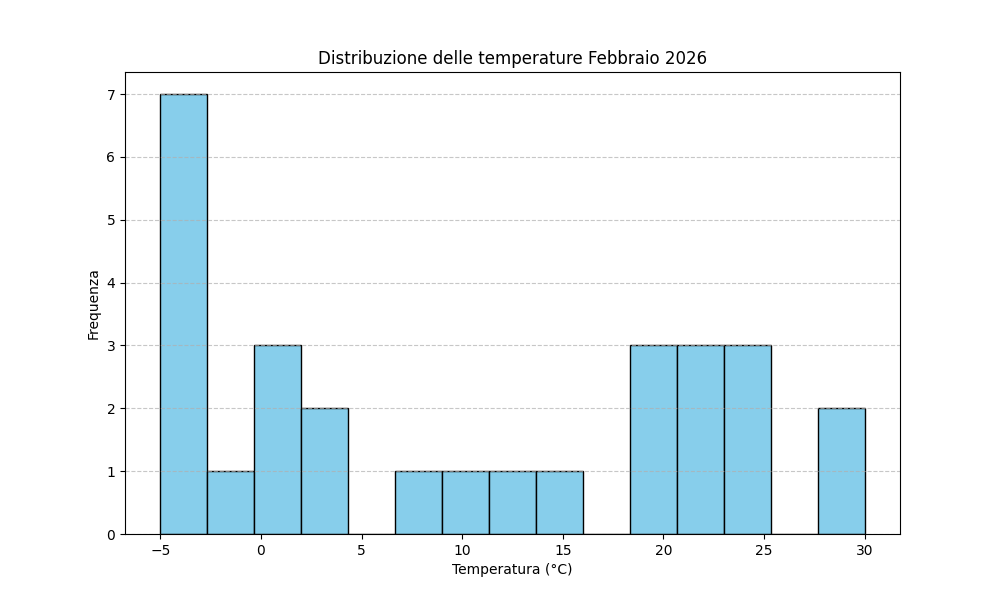
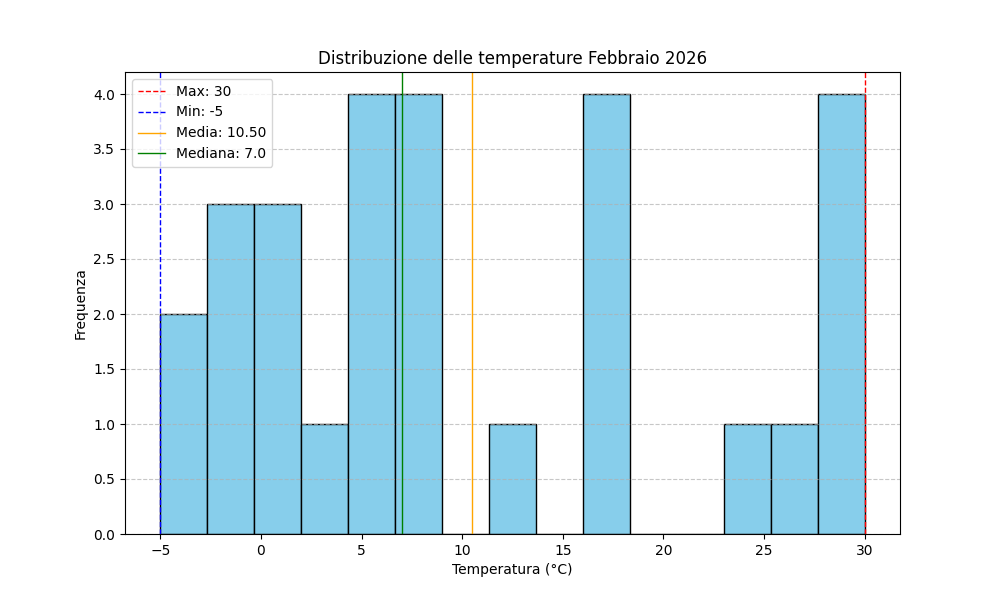
add files

diff --git a/Corso_Python_Febbraio/Giovedì_26/Pomeriggio/ldgseaborn.py b/Corso_Python_Febbraio/Giovedì_26/Pomeriggio/ldgseaborn.py
@@ -1,0 +1,92 @@
+'''L'obiettivo di questo esercizio è generare un set di dati di serie temporali
+utilizzando NumPy, analizzarli con pandas e visualizzare i risultati usando
+Matplotlib. Gli studenti dovranno eseguire le seguenti operazioni:
+
+
+Generazione dei Dati: Utilizzare NumPy per generare una serie temporale
+di 365 giorni di dati, simulando il numero di visitatori giornalieri in
+un parco. Assumere che il numero medio di visitatori sia 2000 con una
+deviazione standard di 500. Inoltre, aggiungere un trend crescente nel
+tempo per simulare l'aumento della popolarità del parco.
+
+Creazione del DataFrame: Creare un DataFrame pandas con le date come
+indice e il numero di visitatori come colonna.
+
+Analisi dei Dati: Calcolare il numero medio di visitatori per mese e la
+deviazione standard.
+
+Visualizzazione dei Dati:
+
+Creare un grafico a linee del numero di visitatori giornalieri.
+
+Aggiungere al grafico la media mobile a 7 giorni per mostrare la
+tendenza settimanale.
+
+Creare un secondo grafico che mostri la media mensile dei visitatori'''
+import numpy as np
+import pandas as pd
+import seaborn as sns
+import matplotlib.pyplot as plt
+date_2024 = pd.date_range(start='2024-01-01', end='2024-12-31')
+giorni=np.arange(1,367)
+#print(giorni)
+'''
+nvisitatori=np.random.normal(2000,500,len(giorni))
+#print(nvisitatori)
+incremento=0.1
+nvisitatori=nvisitatori*(1+incremento*giorni)
+'''
+num_giorni = len(giorni)#365
+nvisitatori = np.random.normal(2000, 500, num_giorni)
+incremento = 0.1  # +10% nell'anno
+
+# Fattore giorno per giorno da 1 a 1+incremento
+fattore = 1 + incremento * (np.arange(num_giorni)/num_giorni)
+nvisitatori_trend = nvisitatori * fattore
+
+'''df=pd.DataFrame({
+    'giorni': giorni,
+    'nvisitatori':nvisitatori
+})'''
+
+nvisitatori = nvisitatori.astype(int)
+print(nvisitatori.dtype)
+print(nvisitatori)
+
+dfcontrend = pd.DataFrame({
+    "Visitatori": nvisitatori
+}, index=date_2024)
+#media_mensile = dfcontrend.resample("ME").mean()
+dfcontrend["Mese"] = dfcontrend.index.month
+media_mensile = dfcontrend.groupby("Mese")["Visitatori"].mean().reset_index()
+standard = dfcontrend.groupby("Mese")["Visitatori"].std().reset_index()
+#dev_std_mensile = dfcontrend.resample("ME").std()
+
+print("Media mensile visitatori:")
+print(media_mensile)
+print("\nDeviazione standard mensile:")
+print(standard)
+
+dfcontrend["Media Mobile 7gg"] = dfcontrend["Visitatori"].rolling(window=7).mean()
+
+
+sns.set(style="whitegrid")
+plt.figure(figsize=(12,5))
+sns.lineplot(data=dfcontrend, x=dfcontrend.index, y="Visitatori", label="Visitatori giornalieri")
+sns.lineplot(data=dfcontrend, x=dfcontrend.index, y="Media Mobile 7gg", label="Media Mobile 7gg", color="red")
+plt.title("Visitatori Giornalieri con Media Mobile a 7 Giorni")
+plt.xlabel("Giorno")
+plt.ylabel("Numero di Visitatori")
+plt.legend()
+plt.show()
+
+
+
+sns.set(style="whitegrid")
+plt.figure(figsize=(10,4))
+sns.lineplot(data=media_mensile, x="Mese", y="Visitatori", marker="o")
+plt.title("Media Mensile dei Visitatori")
+plt.xlabel("Mese")
+plt.ylabel("Numero Medio Visitatori")
+plt.xticks(range(1,13))
+plt.show()

diff --git a/Corso_Python_Febbraio/Giovedì_26/Pomeriggio/es2.py b/Corso_Python_Febbraio/Giovedì_26/Pomeriggio/es2.py
@@ -1,0 +1,61 @@
+'''
+Creato un DataFrame pandas con tre colonne: altezza, peso e età di un gruppo
+di persone, normalizza i dati di altezza e peso usando la normalizzazione min-
+max (ridimensiona i valori in modo che varino tra 0 e 1).
+Assicurati di lasciare inalterata la colonna età; mostra il DataFrame
+originale e quello modificato.
+Fornisci un codice che:
+1. Carichi il DataFrame (puoi assumere che i dati siano già disponibili in un
+DataFrame chiamato df).
+2. Applichi la normalizzazione min-max alle colonne altezza e peso.
+3. Stampa sia il DataFrame originale sia quello modificato per compararli.
+'''
+import numpy as np
+import pandas as pd
+import seaborn as sns
+import matplotlib.pyplot as plt
+
+altezza = np.random.randint(150, 190, 100)
+peso = np.random.randint(18, 80, 100)
+eta = np.random.randint(45, 95, 100)
+
+data = {
+    'Altezza': altezza,
+    'Peso': peso,
+    'Eta': eta
+}
+
+df = pd.DataFrame(data)
+print("DataFrame originale:")
+print(df)
+
+#copia primo dataframe
+df_norm = df.copy()
+# normalizzazione dei dati  (x-x_min)/(x_max-x_min) valori compresi tra 0-1
+df_norm['Altezza'] = (df['Altezza'] - df['Altezza'].min()) / (df['Altezza'].max() - df['Altezza'].min())
+df_norm['Peso'] = (df['Peso'] - df['Peso'].min()) / (df['Peso'].max() - df['Peso'].min())
+print("\nDataFrame nuovo:")
+print(df_norm)
+
+# istogramma
+axes = df.hist(bins=10, figsize=(10, 6), edgecolor='black')
+
+for ax, colonna in zip(axes.flatten(), df.columns):
+    
+    valori = df[colonna]
+    
+    media = valori.mean()
+    mediana = valori.median()
+    minimo = valori.min()
+    massimo = valori.max()
+    
+    ax.axvline(media, linestyle='-', linewidth=2, label='Media')
+    ax.axvline(mediana, linestyle='--', linewidth=2, label='Mediana')
+    ax.axvline(minimo, linestyle=':', linewidth=2, label='Min')
+    ax.axvline(massimo, linestyle='-.', linewidth=2, label='Max')
+    
+    ax.legend()
+
+plt.suptitle("Distribuzione di Altezza, Peso ed Età")
+plt.tight_layout()
+plt.show()

diff --git a/Corso_Python_Febbraio/Giovedì_26/Pomeriggio/es1.py b/Corso_Python_Febbraio/Giovedì_26/Pomeriggio/es1.py
@@ -42,20 +42,15 @@ print(f"Temperatura media: {temp_mean:.2f}")
 print(f"Mediana delle temperature: {temp_median}")
 
 plt.figure(figsize=(12, 6))
-
 # Grafico lineare delle temperature
 plt.plot(df['Date'], df['Temperature'], marker='o', linestyle='-', color='tab:blue', label='Temperatura')
-
 plt.title('Temperature giornaliere Febbraio 2026')
 plt.xlabel('Data')
 plt.ylabel('Temperatura (°C)')
-
 # Griglia e legenda
 plt.grid(linestyle='--', alpha=0.6)
 plt.legend()
-
 plt.xticks(rotation=45) #rotazione etichetta data
-
 # Mostra il grafico
 plt.tight_layout()
 plt.savefig('scatter_plot.png')
@@ -64,16 +59,19 @@ plt.show()
 
 ### Istogramma
 plt.figure(figsize=(10, 6))
-
 # Creazione dell'istogramma
 plt.hist(df['Temperature'], bins=15, color='skyblue', edgecolor='black')  # bins = numero di intervalli
-
 # Titolo e etichette
 plt.title('Distribuzione delle temperature Febbraio 2026')
 plt.xlabel('Temperatura (°C)')
 plt.ylabel('Frequenza')
-
 # Griglia
 plt.grid(axis='y', linestyle='--', alpha=0.7)
+# Linee verticali per le statistiche
+plt.axvline(temp_max, color='red', linestyle='--', linewidth=1, label=f'Max: {temp_max}')
+plt.axvline(temp_min, color='blue', linestyle='--', linewidth=1, label=f'Min: {temp_min}')
+plt.axvline(temp_mean, color='orange', linestyle='-', linewidth=1, label=f'Media: {temp_mean:.2f}')
+plt.axvline(temp_median, color='green', linestyle='-', linewidth=1, label=f'Mediana: {temp_median}')
+plt.legend()
 plt.savefig('histo.png')
 plt.show()

diff --git a/Corso_Python_Febbraio/Giovedì_26/Pomeriggio/es3.py b/Corso_Python_Febbraio/Giovedì_26/Pomeriggio/es3.py
@@ -1,0 +1,31 @@
+'''
+1.  Generazione dei Dati: Utilizzare NumPy per generare una serie temporale
+di 365 giorni di dati, simulando il numero di visitatori giornalieri in
+un parco. Assumere che il numero medio di visitatori sia 2000 con una
+deviazione standard di 500. Inoltre, aggiungere un trend crescente nel
+tempo per simulare l'aumento della popolarità del parco.
+2.  Creazione del DataFrame: Creare un DataFrame pandas con le date come
+indice e il numero di visitatori come colonna.
+3.  Analisi dei Dati: Calcolare il numero medio di visitatori per mese e la
+deviazione standard.
+4.  Visualizzazione dei Dati:
+Creare un grafico a linee del numero di visitatori giornalieri.
+Aggiungere al grafico la media mobile a 7 giorni per mostrare la
+tendenza settimanale.
+Creare un secondo grafico che mostri la media mensile dei visitatori.
+'''
+import numpy as np
+import pandas as pd
+import matplotlib.pyplot as plt
+
+giorni = 365
+media = 2000
+dev_std = 500
+
+# Generazione da distr normale
+visitatori = np.random.normal(media, dev_std, giorni)
+
+trend = 1 + 0.01 * np.arange(giorni) # crescita 1% al giorno
+visitatori_trend = visitatori * trend
+
+np.arange(365)
